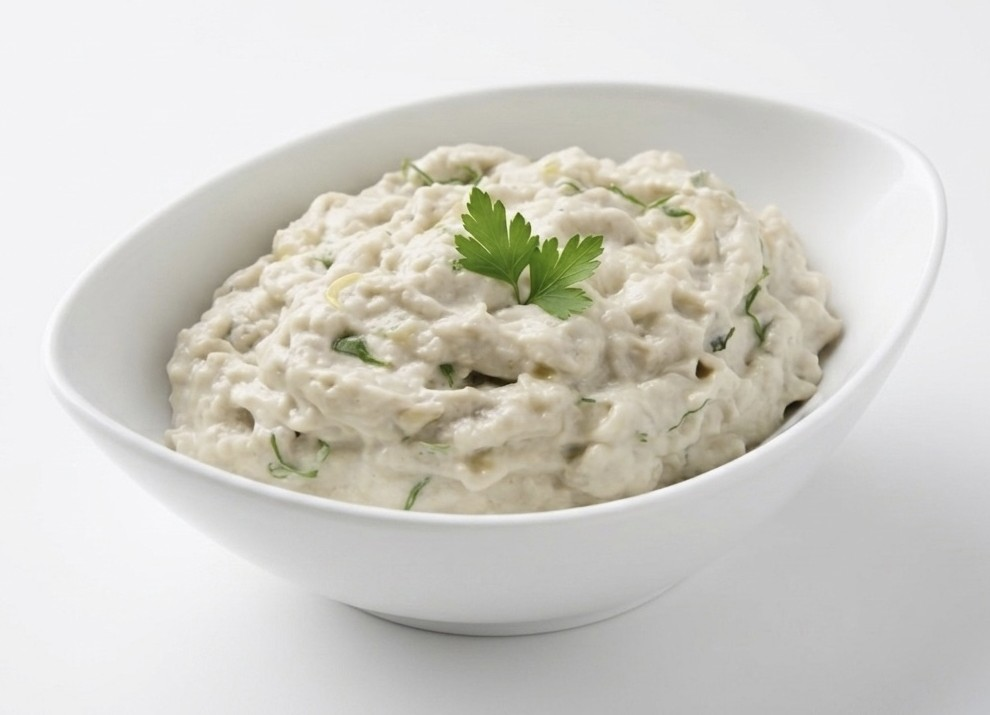
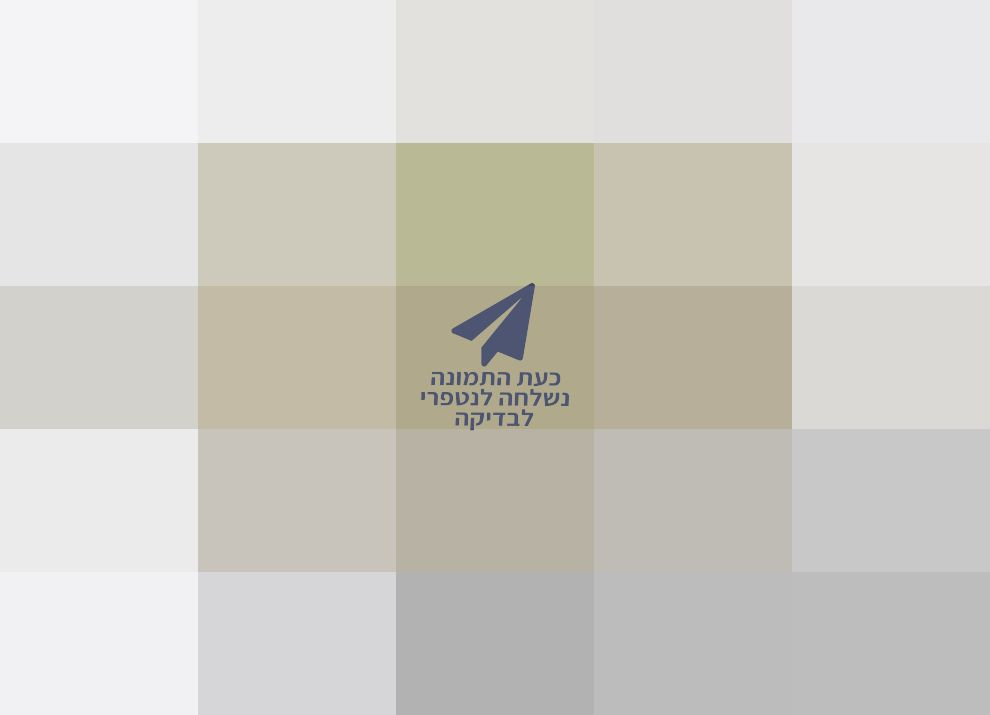
דיוקי נגישות

Changed region(s): [[0.0, 0.1231, 1.0, 0.8615], [0.3333, 0.8308, 0.6061, 0.9538]]

diff --git a/murchav.html b/murchav.html
@@ -272,7 +272,7 @@ M267 42L268 41L271 41L272 42L272 45L269 47L267 45Z"/>
         <div class="category-item">
           <button class="category-card category-button" type="button" data-open-panel="panel-starters" aria-pressed="false"><span class="category-icon"></span> מנות ראשונות</button>
           <div class="section menu-panel" id="panel-starters" role="region" aria-labelledby="panel-starters-title">
-          <h3 class="section-title">מנות ראשונות</h3>
+          <h3 class="section-title" id="panel-starters-title">מנות ראשונות</h3>
           <div id="starters-remaining" class="remaining-hint is-ok" aria-live="polite" aria-atomic="true"></div>
           <div id="starters" aria-label="רשימת מנות ראשונות"></div>
        
@@ -282,7 +282,7 @@ M267 42L268 41L271 41L272 42L272 45L269 47L267 45Z"/>
         <div class="category-item">
           <button class="category-card category-button" type="button" data-open-panel="panel-sides" aria-pressed="false"><span class="category-icon"></span> תוספות</button>
           <div class="section menu-panel" id="panel-sides" role="region" aria-labelledby="panel-sides-title">
-          <h3 class="section-title">תוספות</h3>
+          <h3 class="section-title" id="panel-sides-title">תוספות</h3>
           <div id="sides-remaining" class="remaining-hint is-ok" aria-live="polite" aria-atomic="true"></div>
           <div id="sides" class="grid" aria-label="רשימת תוספות"></div>
       
@@ -292,7 +292,7 @@ M267 42L268 41L271 41L272 42L272 45L269 47L267 45Z"/>
         <div class="category-item">
           <button class="category-card category-button" type="button" data-open-panel="panel-mains" aria-pressed="false"><span class="category-icon"></span> מנות עיקריות</button>
           <div class="section menu-panel" id="panel-mains" role="region" aria-labelledby="panel-mains-title">
-          <h3 class="section-title">מנות עיקריות</h3>
+          <h3 class="section-title" id="panel-mains-title">מנות עיקריות</h3>
           <div class="section-sub">המקסימום הכולל נקבע לפי מספר המנות שבחרת</div>
           <div id="mains-remaining" class="remaining-hint is-ok" aria-live="polite" aria-atomic="true"></div>
           <div id="mains" class="grid" aria-label="רשימת עיקריות"></div>
@@ -303,6 +303,7 @@ M267 42L268 41L271 41L272 42L272 45L269 47L267 45Z"/>
         <div class="category-item">
           <button class="category-card category-button" type="button" data-open-panel="panel-breads" aria-pressed="false"><span class="category-icon"></span> לחמים</button>
           <div class="section menu-panel" id="panel-breads" role="region" aria-labelledby="panel-breads-title">
+          <h3 class="section-title" id="panel-breads-title">לחמים</h3>
           <div id="breads-remaining" class="remaining-hint is-ok" aria-live="polite" aria-atomic="true"></div>
           <div id="breads" class="grid" aria-label="רשימת לחמים"></div>
           </div>
@@ -393,7 +394,8 @@ M267 42L268 41L271 41L272 42L272 45L269 47L267 45Z"/>
   </a>
 
   <!-- IMAGE POPOVER -->
-  <div id="img-pop" class="img-pop" role="dialog" aria-label="תצוגה מקדימה של מנה" aria-hidden="true">
+  <div id="img-pop" class="img-pop" role="dialog" aria-modal="true" aria-labelledby="img-pop-title" aria-hidden="true">
+    <h2 id="img-pop-title" class="sr-only">תצוגה מקדימה של מנה</h2>
     <button id="img-pop-close" class="img-pop-close" type="button" aria-label="סגירה">×</button>
     <img id="img-pop-img" src="" alt="תצוגה מקדימה של מנה" loading="lazy" decoding="async">
   </div>
@@ -1027,6 +1029,8 @@ M267 42L268 41L271 41L272 42L272 45L269 47L267 45Z"/>
         var sel = $("qty-" + type + "-" + idx);
         if (!cb || !sel) return;
 
+        var focusQtyAfterChange = false;
+
         if (cb.checked) {
           if (type === "main") {
             var checkedNow = qsAll(".main-check:checked").length;
@@ -1055,6 +1059,7 @@ M267 42L268 41L271 41L272 42L272 45L269 47L267 45Z"/>
 
           sel.disabled = false;
           sel.value = String(defaultQty(type));
+          focusQtyAfterChange = true;
         } else {
           sel.disabled = true;
           sel.value = String(defaultQty(type));
@@ -1063,6 +1068,10 @@ M267 42L268 41L271 41L272 42L272 45L269 47L267 45Z"/>
         enforceTypeLimit(type);
         applyLocking(type);
         updateRemainingHints();
+
+        if (focusQtyAfterChange && cb.checked && !sel.disabled && sel.focus) {
+          sel.focus();
+        }
       }
 
       function handleQtyChange(type, idx) {
@@ -1097,6 +1106,12 @@ M267 42L268 41L271 41L272 42L272 45L269 47L267 45Z"/>
               var cb = $(type + "-" + idx);
               var sel = $("qty-" + type + "-" + idx);
               if (cb) cb.addEventListener("change", function () { handleCheckboxChange(type, idx); });
+              if (cb) cb.addEventListener("keydown", function (e) {
+                if (e.key === "Enter") {
+                  e.preventDefault();
+                  cb.click();
+                }
+              });
               if (sel) sel.addEventListener("change", function () { handleQtyChange(type, idx); });
             })(i);
           }
@@ -1869,7 +1884,13 @@ items: buildItemsArray(data),
         });
 
         document.addEventListener("keydown", function (e) {
-          if (e.key === "Escape") closeImgPop();
+          var pop = $("img-pop");
+          if (!pop || !pop.classList.contains("is-open")) return;
+          if (e.key === "Escape") {
+            closeImgPop();
+            return;
+          }
+          if (e.key === "Tab") trapFocusInDialog(e, pop);
         });
 
         window.addEventListener("resize", function () {

diff --git a/bsisi.html b/bsisi.html
@@ -465,7 +465,8 @@ M267 42L268 41L271 41L272 42L272 45L269 47L267 45Z"/>
   </a>
 
   <!-- IMAGE POPOVER -->
-  <div id="img-pop" class="img-pop" role="dialog" aria-label="תצוגה מקדימה של מנה" aria-hidden="true">
+  <div id="img-pop" class="img-pop" role="dialog" aria-modal="true" aria-labelledby="img-pop-title" aria-hidden="true">
+    <h2 id="img-pop-title" class="sr-only">תצוגה מקדימה של מנה</h2>
     <button id="img-pop-close" class="img-pop-close" type="button" aria-label="סגירה">×</button>
     <img id="img-pop-img" src="" alt="תצוגה מקדימה של מנה">
   </div>
@@ -990,6 +991,8 @@ M267 42L268 41L271 41L272 42L272 45L269 47L267 45Z"/>
         var sel = $("qty-" + type + "-" + idx);
         if (!cb || !sel) return;
 
+        var focusQtyAfterChange = false;
+
         if (cb.checked) {
           if (type === "main") {
             var checkedNow = qsAll(".main-check:checked").length;
@@ -1018,6 +1021,7 @@ M267 42L268 41L271 41L272 42L272 45L269 47L267 45Z"/>
 
           sel.disabled = false;
           sel.value = String(defaultQty(type));
+          focusQtyAfterChange = true;
         } else {
           sel.disabled = true;
           sel.value = String(defaultQty(type));
@@ -1026,6 +1030,10 @@ M267 42L268 41L271 41L272 42L272 45L269 47L267 45Z"/>
         enforceTypeLimit(type);
         applyLocking(type);
         updateRemainingHints();
+
+        if (focusQtyAfterChange && cb.checked && !sel.disabled && sel.focus) {
+          sel.focus();
+        }
       }
 
       function handleQtyChange(type, idx) {
@@ -1060,6 +1068,12 @@ M267 42L268 41L271 41L272 42L272 45L269 47L267 45Z"/>
               var cb = $(type + "-" + idx);
               var sel = $("qty-" + type + "-" + idx);
               if (cb) cb.addEventListener("change", function () { handleCheckboxChange(type, idx); });
+              if (cb) cb.addEventListener("keydown", function (e) {
+                if (e.key === "Enter") {
+                  e.preventDefault();
+                  cb.click();
+                }
+              });
               if (sel) sel.addEventListener("change", function () { handleQtyChange(type, idx); });
             })(i);
           }
@@ -1786,7 +1800,13 @@ function buildItemsArray(data) {
         });
 
         document.addEventListener("keydown", function (e) {
-          if (e.key === "Escape") closeImgPop();
+          var pop = $("img-pop");
+          if (!pop || !pop.classList.contains("is-open")) return;
+          if (e.key === "Escape") {
+            closeImgPop();
+            return;
+          }
+          if (e.key === "Tab") trapFocusInDialog(e, pop);
         });
 
         window.addEventListener("resize", function () {
@@ -1949,5 +1969,3 @@ function buildItemsArray(data) {
 </body>
 
 </html>
-
-

diff --git a/styles.css b/styles.css
@@ -1039,6 +1039,10 @@ display: block;
   cursor:pointer;
   border-radius:0;
 }
+.page-basic .item input[type="checkbox"]:focus-visible{
+  outline:3px solid var(--focus);
+  outline-offset:3px;
+}
 .page-basic .item input[type="checkbox"]:checked + label{
   font-weight:600;
   color:var(--primary);
@@ -1050,6 +1054,10 @@ display: block;
   border:1px solid rgba(0,0,0,.12);
   background:#fff;
   overflow:hidden;
+}
+.page-basic .number-picker:focus-within{
+  outline:3px solid #000;
+  outline-offset:3px;
 }
 .page-basic .number-picker select{
   width:100%;
@@ -1395,6 +1403,17 @@ display: block;
   overflow:hidden;
 }
 .page-basic .img-pop.is-open{ display:block; }
+.page-basic .sr-only{
+  position:absolute;
+  width:1px;
+  height:1px;
+  padding:0;
+  margin:-1px;
+  overflow:hidden;
+  clip:rect(0,0,0,0);
+  white-space:nowrap;
+  border:0;
+}
 .page-basic .img-pop img{ width:100%; height:auto; display:block; }
 .page-basic .img-pop-close{
   position:absolute;
@@ -1924,6 +1943,7 @@ h2{
   border-color:rgba(27,54,48,.45);
   outline:none;
 }
+
 .page-basic .menu-tab.is-active,
 .page-basic .menu-tab[aria-selected="true"],
 .page-basic .category-card[aria-pressed="true"]{
@@ -2341,4 +2361,10 @@ h2{
     border-radius:0;
   }
   .order-summary-page .actions{ display:none; }
+}
+
+/* Strong keyboard focus indicator - keep last so it wins across pages */
+:focus-visible{
+  outline:3px solid #000 !important;
+  outline-offset:3px !important;
 }